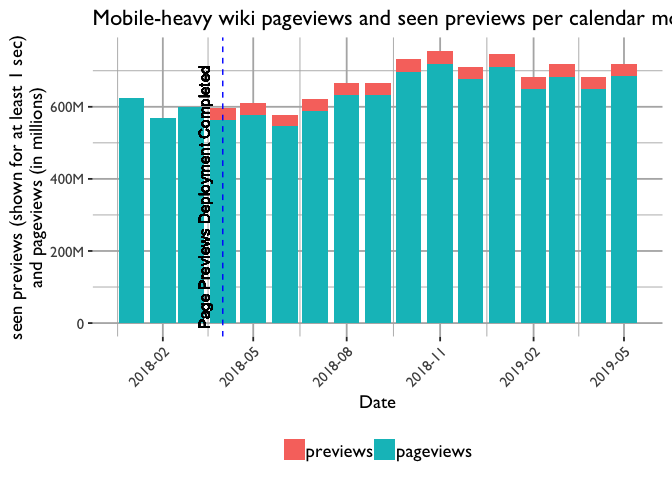
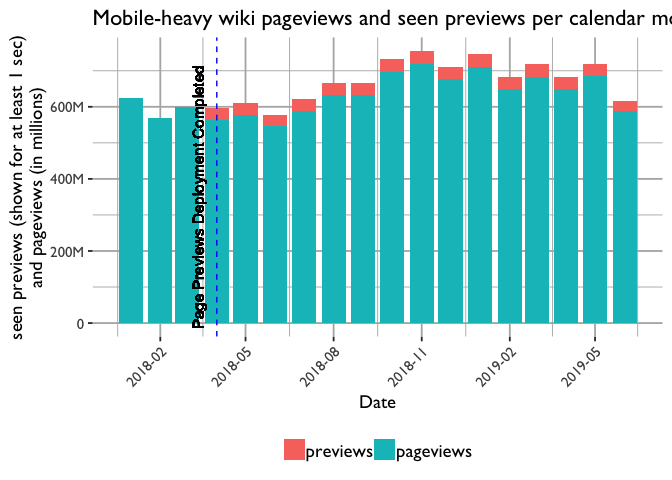
Run June 2019 metrics

Changed region(s): [[0.1875, 0.0625, 0.9688, 0.8125], [0.6875, 0.6875, 0.8125, 0.8125], [0.8438, 0.7188, 0.9375, 0.8125]]

diff --git a/03-diversity_metrics.md b/03-diversity_metrics.md
@@ -101,12 +101,12 @@ tail(gs_pageviews_monthly)
     ## # A tibble: 6 x 4
     ##   date       monthly_views yearOverYear type     
     ##   <date>             <dbl>        <dbl> <chr>    
-    ## 1 2018-12-01    3669639793     NA       pageviews
-    ## 2 2019-01-01    3864438741      0.0707  pageviews
-    ## 3 2019-02-01    3578825856      0.0610  pageviews
-    ## 4 2019-03-01    3950836410      0.0657  pageviews
-    ## 5 2019-04-01    3721100969      0.0320  pageviews
-    ## 6 2019-05-01    3837559183     -0.00858 pageviews
+    ## 1 2019-01-01    3864438741      0.0707  pageviews
+    ## 2 2019-02-01    3578825856      0.0610  pageviews
+    ## 3 2019-03-01    3950836410      0.0657  pageviews
+    ## 4 2019-04-01    3721100969      0.0320  pageviews
+    ## 5 2019-05-01    3837559183     -0.00858 pageviews
+    ## 6 2019-06-01    3442174949     -0.0377  pageviews
 
 Global South seen previews
 --------------------------
@@ -157,12 +157,12 @@ tail(gs_previews_monthly)
     ## # A tibble: 6 x 4
     ##   date       monthly_views yearOverYear type    
     ##   <date>             <dbl>        <dbl> <chr>   
-    ## 1 2018-12-01     355521531       NA     previews
-    ## 2 2019-01-01     389463057       NA     previews
-    ## 3 2019-02-01     357437235       NA     previews
-    ## 4 2019-03-01     390454166       NA     previews
-    ## 5 2019-04-01     370881337        0.226 previews
-    ## 6 2019-05-01     389163895       -0.137 previews
+    ## 1 2019-01-01     389463057       NA     previews
+    ## 2 2019-02-01     357437235       NA     previews
+    ## 3 2019-03-01     390454166       NA     previews
+    ## 4 2019-04-01     370881337        0.226 previews
+    ## 5 2019-05-01     389163895       -0.137 previews
+    ## 6 2019-06-01     343196693       -0.165 previews
 
 Monthly Interactions in Global South (Pageviews + Seen Previews)
 ----------------------------------------------------------------
@@ -222,12 +222,13 @@ knitr::kable(gs_interactions_total)
 | 2019-03-01 |    4341290576|            NA|
 | 2019-04-01 |    4091982306|     0.0470239|
 | 2019-05-01 |    4226723078|    -0.0219466|
+| 2019-06-01 |    3785371642|    -0.0507908|
 
 Mobile-Heavy Wikis Page Interactions
 ====================================
 
 ``` r
-# Get pageviews for identified mobile heavy countires for post May 2018
+# Get pageviews for identified mobile heavy countries for post May 2018
 # data. Other timespans need different corrections IE correction:
 # https://phabricator.wikimedia.org/T157404#3194046,
 # https://phabricator.wikimedia.org/T193578#4300284 Mobile heave wikis
@@ -235,17 +236,16 @@ Mobile-Heavy Wikis Page Interactions
 # https://github.com/wikimedia-research/canonical-data/blob/master/mobile_heavy_wikis.csv
 
 query <- "SELECT year, month, day, CONCAT(year,'-',LPAD(month,2,'0'),'-',LPAD(day,2,'0')) AS date,
- SUM(IF (FIND_IN_SET (project, 'ar.wikipedia, arz.wikipedia, az.wikipedia, bn.wikipedia, 
-\tfa.wikipedia, gu.wikipedia, hi.wikipedia, id.wikipedia, kn.wikipedia,
-\tky.wikipedia, ml.wikipedia, mr.wikipedia, ms.wikipedia, pt.wiktionary,
-\tsq.wikipedia, sw.wikipedia, ta.wikipedia, th.wikipedia, tl.wikipedia, 
-\tzh.wikiquote') > 0, view_count, 0)) AS mh_views
+SUM(view_count) AS all,
+SUM(IF (FIND_IN_SET(project,
+'hi.wikipedia,bn.wikipedia,id.wikipedia,ar.wikipedia,mr.wikipedia,fa.wikipedia,sw.wikipedia,tl.wikipedia,zh.wikiquote,th.wikipedia,arz.wikipedia,ml.wikipedia,ta.wikipedia,kn.wikipedia,pt.wiktionary,az.wikipedia,gu.wikipedia,ky.wikipedia,sq.wikipedia,ms.wikipedia'
+) > 0, view_count, 0)) AS mh_views
 FROM wmf.pageview_hourly
 WHERE ((year = 2018 AND month >=5) OR (year = 2019))
-AND agent_type='user' 
+AND agent_type='user'
 AND NOT (country_code IN ('PK', 'IR', 'AF')
-AND user_agent_map['browser_family'] = 'IE' AND user_agent_map['browser_major'] = 7)
-GROUP BY year, month, day ORDER BY year, month, day LIMIT 1000;
+AND user_agent_map['browser_family'] = 'IE') 
+GROUP BY year, month, day ORDER BY year, month, day LIMIT 1000
 "
 results <- collect(sql(query))
 save(results, file = "Data/mobile_heavy_pageviews.tsv")
@@ -259,18 +259,16 @@ save(results, file = "Data/mobile_heavy_pageviews.tsv")
 # https://phabricator.wikimedia.org/T157404#3194046
 query <- "
 SELECT year, month, day, CONCAT(year,'-',LPAD(month,2,'0'),'-',LPAD(day,2,'0')) AS date,
- SUM(IF (FIND_IN_SET (project, 'ar.wikipedia, arz.wikipedia, az.wikipedia, bn.wikipedia, 
-\tfa.wikipedia, gu.wikipedia, hi.wikipedia, id.wikipedia, kn.wikipedia,
-\tky.wikipedia, ml.wikipedia, mr.wikipedia, ms.wikipedia, pt.wiktionary,
-\tsq.wikipedia, sw.wikipedia, ta.wikipedia, th.wikipedia, tl.wikipedia, 
-\tzh.wikiquote') > 0, view_count, 0)) AS mh_views
--- Filter for mobile heavy wikis https://github.com/wikimedia-research/canonical-data/blob/master/mobile_heavy_wikis.csv
+SUM(view_count) AS all,
+SUM(IF (FIND_IN_SET(project,
+'hi.wikipedia,bn.wikipedia,id.wikipedia,ar.wikipedia,mr.wikipedia,fa.wikipedia,sw.wikipedia,tl.wikipedia,zh.wikiquote,th.wikipedia,arz.wikipedia,ml.wikipedia,ta.wikipedia,kn.wikipedia,pt.wiktionary,az.wikipedia,gu.wikipedia,ky.wikipedia,sq.wikipedia,ms.wikipedia'
+) > 0, view_count, 0)) AS mh_views
 FROM wmf.pageview_hourly
-WHERE ((year = 2018 AND month >=5) OR (year = 2019))
-AND agent_type='user' 
-AND NOT (country_code IN ('PK', 'IR', 'AF') -- https://phabricator.wikimedia.org/T157404#3194046
-AND user_agent_map['browser_family'] = 'IE') -- https://phabricator.wikimedia.org/T193578#4300284
-GROUP BY year, month, day ORDER BY year, month, day LIMIT 1000;
+ WHERE year = 2018 AND ((month < 5) OR (month = 5 AND day <=19))
+AND agent_type='user'
+  AND NOT (country_code IN ('PK', 'IR', 'AF')
+  AND user_agent_map['browser_family'] = 'IE' AND user_agent_map['browser_major'] = 7)
+GROUP BY year, month, day ORDER BY year, month, day LIMIT 1000
 "
 results <- collect(sql(query))
 save(results, file = "Data/mobile_heavy_pageviews_Jan-May2018.tsv")
@@ -304,12 +302,12 @@ tail(mh_pageviews_monthly)
     ## # A tibble: 6 x 4
     ##   date       monthly_views yearOverYear type     
     ##   <date>             <dbl>        <dbl> <chr>    
-    ## 1 2018-12-01     675804745       NA     pageviews
-    ## 2 2019-01-01     709357379        0.136 pageviews
-    ## 3 2019-02-01     650360340        0.145 pageviews
-    ## 4 2019-03-01     683682169        0.140 pageviews
-    ## 5 2019-04-01     649681496        0.153 pageviews
-    ## 6 2019-05-01     685429938        0.189 pageviews
+    ## 1 2019-01-01     709357379       0.136  pageviews
+    ## 2 2019-02-01     650360340       0.145  pageviews
+    ## 3 2019-03-01     683682169       0.140  pageviews
+    ## 4 2019-04-01     649681496       0.153  pageviews
+    ## 5 2019-05-01     685429938       0.189  pageviews
+    ## 6 2019-06-01     588140293       0.0748 pageviews
 
 Mobile-Heavy Previews
 ---------------------
@@ -352,12 +350,12 @@ tail(mh_previews_monthly)
     ## # A tibble: 6 x 4
     ##   date       monthly_views yearOverYear type    
     ##   <date>             <dbl>        <dbl> <chr>   
-    ## 1 2018-12-01      35591876      NA      previews
-    ## 2 2019-01-01      36596729      NA      previews
-    ## 3 2019-02-01      33318281      NA      previews
-    ## 4 2019-03-01      33671261      NA      previews
-    ## 5 2019-04-01      33236300      -0.0322 previews
-    ## 6 2019-05-01      33743376      -0.0488 previews
+    ## 1 2019-01-01      36596729      NA      previews
+    ## 2 2019-02-01      33318281      NA      previews
+    ## 3 2019-03-01      33671261      NA      previews
+    ## 4 2019-04-01      33236300      -0.0322 previews
+    ## 5 2019-05-01      33743376      -0.0488 previews
+    ## 6 2019-06-01      29193310      -0.0557 previews
 
 Interactions on Mobile-Heavy Wikis (Pageviews + Seen Previews)
 --------------------------------------------------------------
@@ -418,3 +416,4 @@ knitr::kable(mh_interactions_total)
 | 2019-03-01 |     717353430|            NA|
 | 2019-04-01 |     682917796|     0.1425128|
 | 2019-05-01 |     719173314|     0.1754561|
+| 2019-06-01 |     617333603|     0.0678114|

diff --git a/01_interactions_metrics.md b/01_interactions_metrics.md
@@ -204,8 +204,7 @@ Monthly Previews on Desktop Wikipedia
 ``` r
 # Get daily page previews seen on desktop Wikipedia since deployment in
 # April 2018
-q
-ry <- "
+query <- "
 SELECT year, month, day, CONCAT(year,'-',LPAD(month,2,'0'),'-',LPAD(day,2,'0')) AS date,
   SUM(view_count) AS previews_seen
   FROM wmf.virtualpageview_hourly 
@@ -213,8 +212,7 @@ SELECT year, month, day, CONCAT(year,'-',LPAD(month,2,'0'),'-',LPAD(day,2,'0')) 
   GROUP BY year, month, day
   ORDER BY year, month, day LIMIT 10000;
 "
-results <- collect(sql(q
-ry))
+results <- collect(sql(query))
 save(results, file = "Data/page_previews.tsv")
 ```
 

diff --git a/02_unique_devices_rev.md b/02_unique_devices_rev.md
@@ -57,7 +57,7 @@ knitr::kable(unique_devices_summary)
 | 2019-05 |       1594894475|  0.0206621|
 | 2019-06 |       1506535565|  0.0168140|
 
-Plot unique devices
+Plot unique devices chart
 
 ``` r
 p <- ggplot(unique_devices_summary, aes(x = date, y = unique_devices)) + geom_col(fill = "blue") + 
